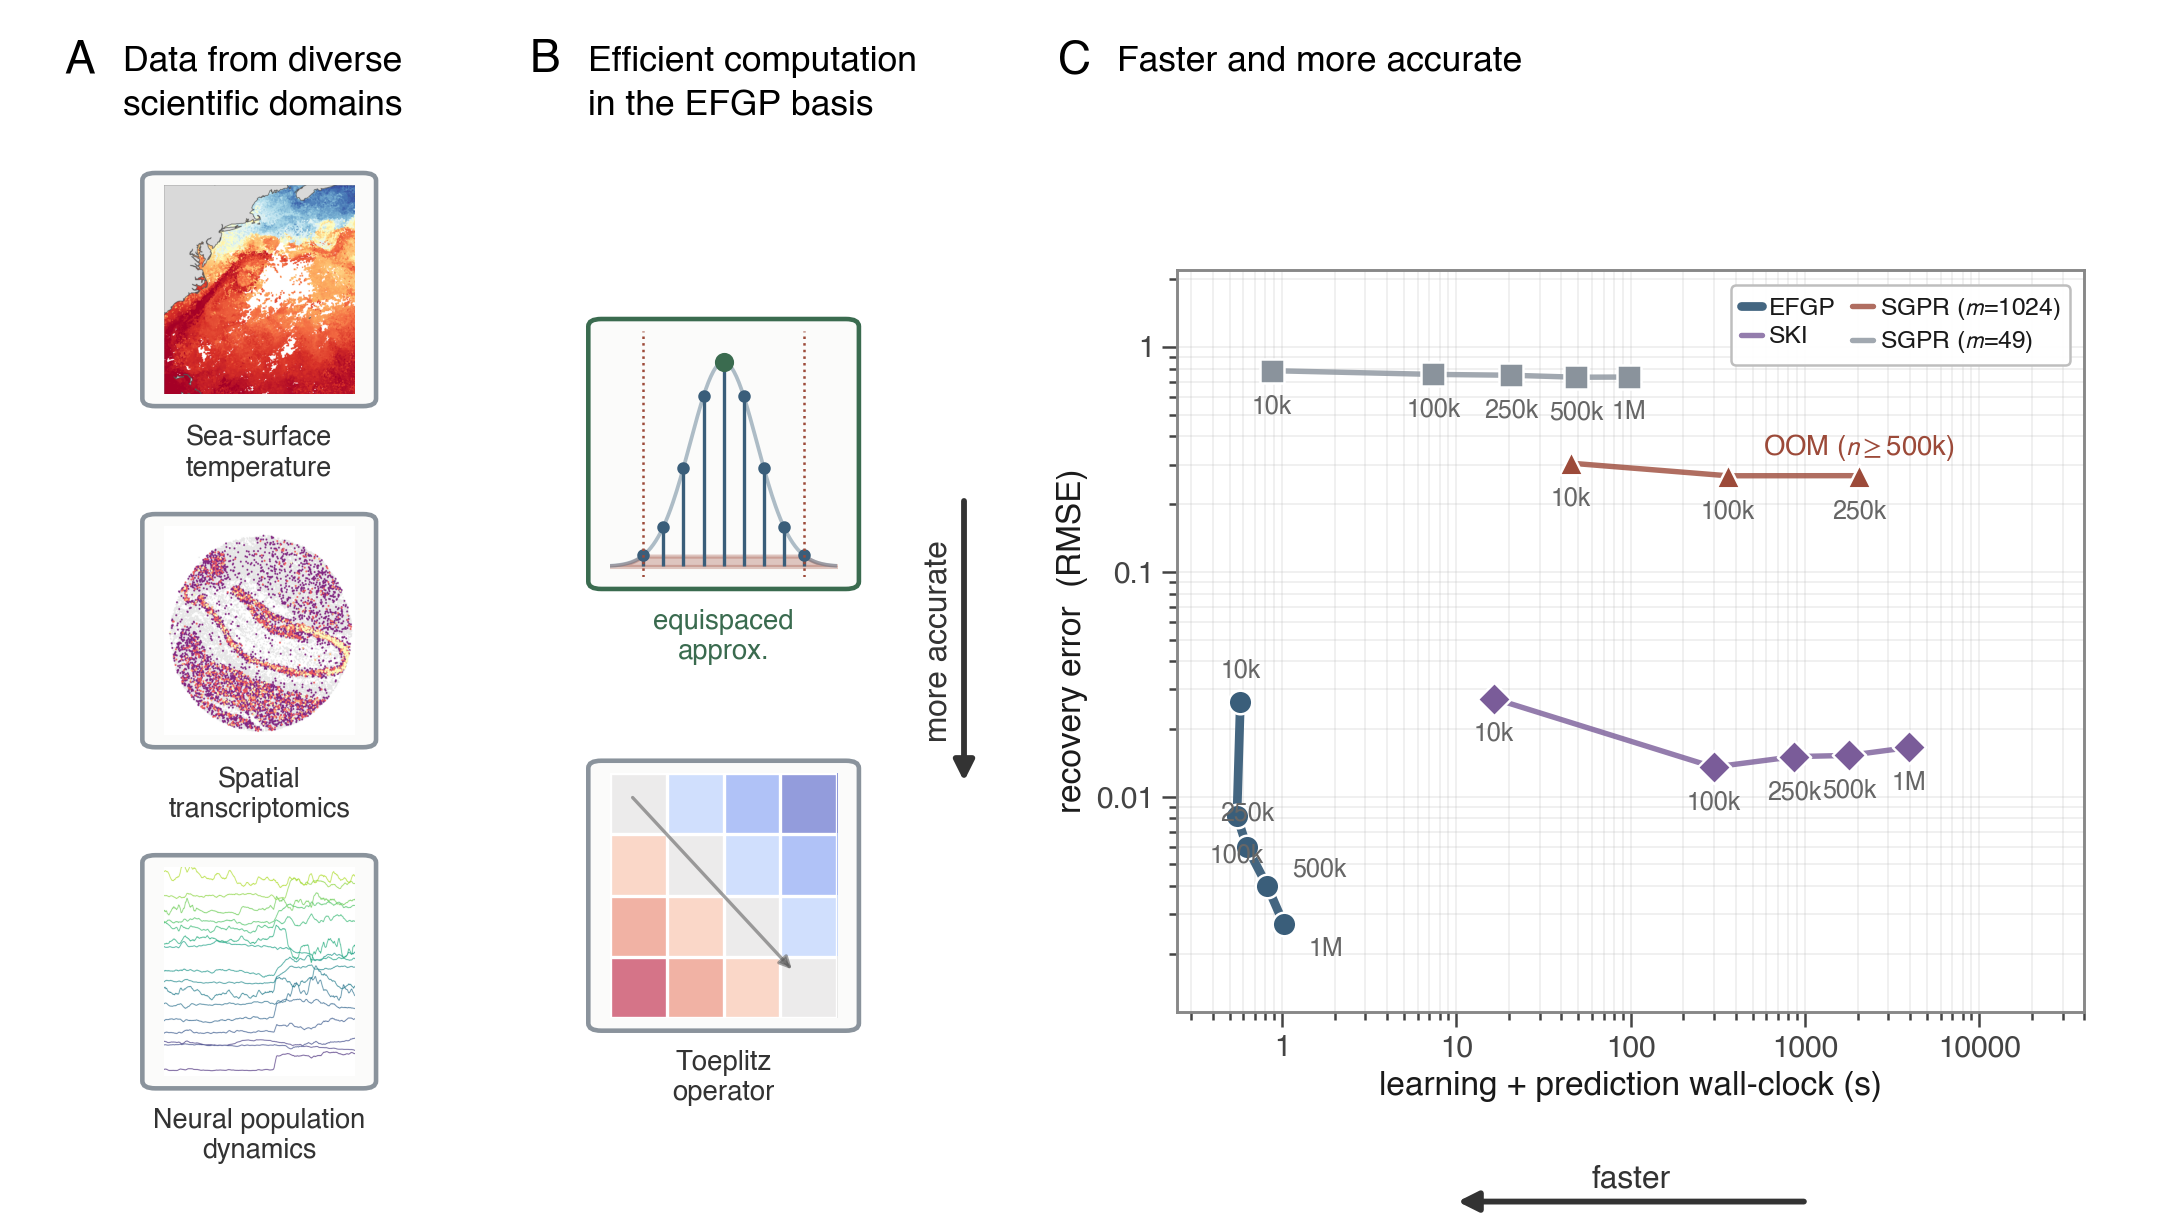
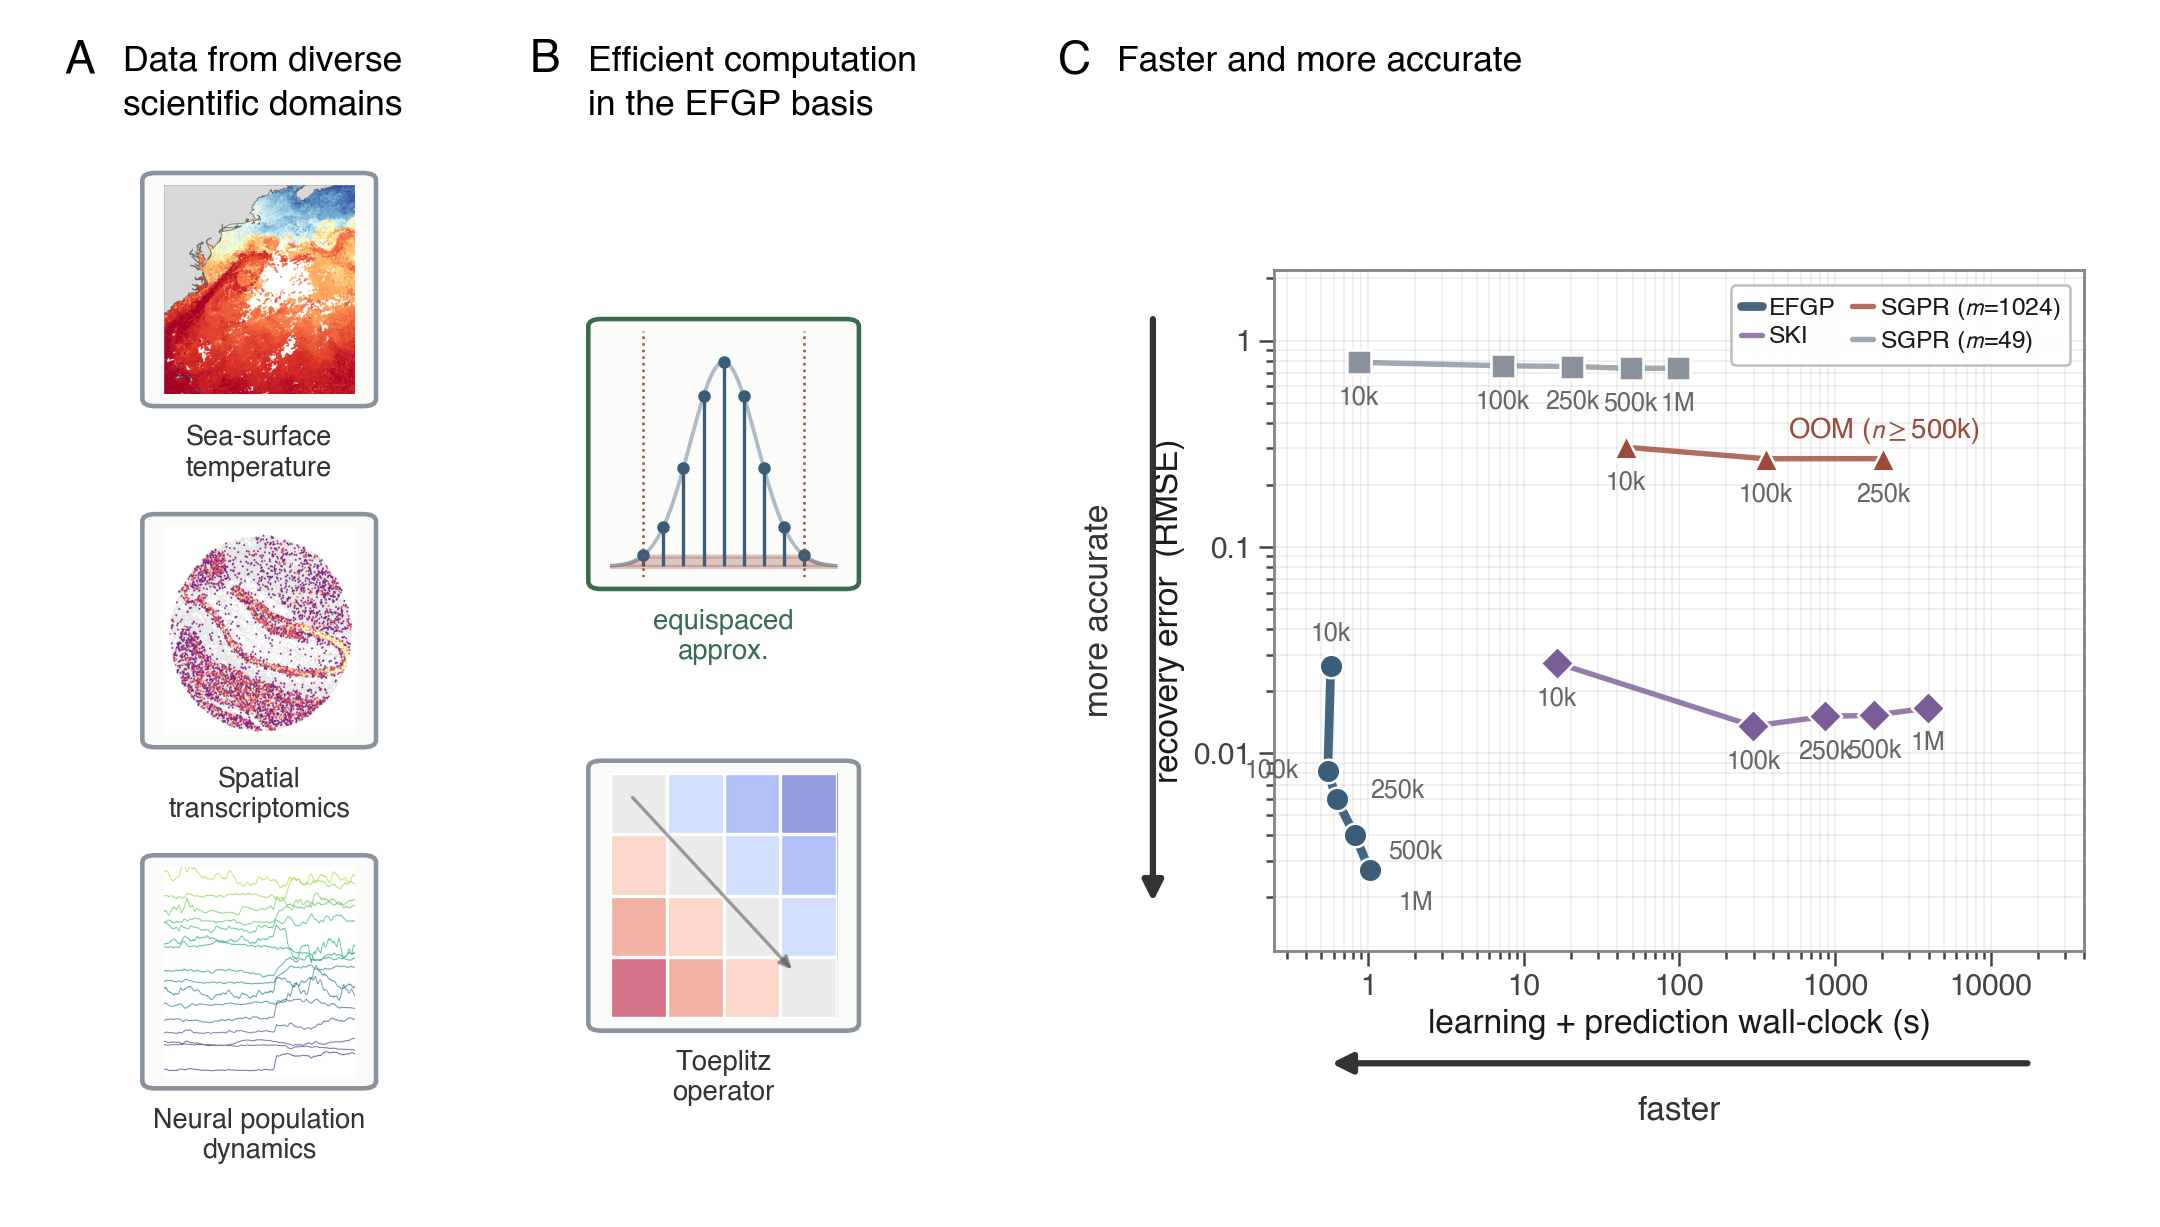
Fig 1 reorient: 0-freq node (normal size), fan out EFGP labels, redesign outside arrows
- equispaced-approx glyph: DC node same size as others (dropped the enlarged highlight).
- panel C: fan out the tightly-clustered EFGP size labels so they no longer overlap.
- altarrows: replace the far-floating outside arrows with long direction arrows that span
  each axis and hug just outside the axis labels ('faster' under x, 'more accurate' beside y);
  panel C axes inset a touch to give the margins room.

diff --git a/paper_figures/fig1_reorient.py b/paper_figures/fig1_reorient.py
@@ -208,8 +208,9 @@ def panel_D_plot(fig, letter, letter_x, title_x, title_y, axes_rect, arrows="ins
     for m in by:
         by[m].sort(key=lambda r: r["T"])
 
-    EFF = {10000: (0, 7.5, "center"), 100000: (0, -9.5, "center"), 250000: (0, 8, "center"),
-           500000: (6, 4, "left"), 1000000: (6, -6, "left")}
+    # EFGP points cluster tightly (~0.5-1s); fan the size labels out so they don't overlap
+    EFF = {10000: (0, 8, "center"), 100000: (-7, 0, "right"), 250000: (8, 2, "left"),
+           500000: (8, -4, "left"), 1000000: (7, -8, "left")}
     NOFF = {"sgpr49": (0, -8.5, "center"), "sgpr1024": (0, -8.5, "center"), "ski": (0, -8.5, "center")}
     _EFF_DEFAULT, _NOFF_DEFAULT = (6, 0, "left"), (0, -8.5, "center")
     _err = lambda r: r.get("rmse", r.get("nrmse"))   # 'rmse' (current) or legacy 'nrmse'
@@ -247,17 +248,17 @@ def panel_D_plot(fig, letter, letter_x, title_x, title_y, axes_rect, arrows="ins
         ax.set_ylabel("recovery error  (RMSE)", fontsize=ST.FS_LABEL, labelpad=2.0)
         ax.tick_params(labelsize=7.2, pad=2.0)
         ax.grid(alpha=0.22, which="both", lw=0.4)
-        aprops = dict(arrowstyle="-|>", color=gr, lw=1.4)
-        # 'faster' -> horizontal, in the bottom margin BELOW the x-axis label, pointing left
-        ax.annotate("", xy=(0.30, -0.255), xytext=(0.70, -0.255), xycoords="axes fraction",
+        aprops = dict(arrowstyle="-|>", color=gr, lw=1.5)
+        # long left-pointing arrow spanning the x-axis, hugging just below the x-axis label
+        ax.annotate("", xy=(0.06, -0.165), xytext=(0.94, -0.165), xycoords="axes fraction",
                     textcoords="axes fraction", arrowprops=aprops, annotation_clip=False, zorder=10)
-        ax.text(0.50, -0.245, "faster", transform=ax.transAxes, fontsize=7.6, color=gr,
-                style="italic", ha="center", va="bottom", clip_on=False, zorder=10)
-        # 'more accurate' -> vertical, in the left margin LEFT of the y-axis label, pointing down
-        ax.annotate("", xy=(-0.235, 0.30), xytext=(-0.235, 0.70), xycoords="axes fraction",
+        ax.text(0.50, -0.235, "faster", transform=ax.transAxes, fontsize=8.0, color=gr,
+                style="italic", ha="center", va="center", clip_on=False, zorder=10)
+        # long down-pointing arrow spanning the y-axis, hugging just left of the y-axis label
+        ax.annotate("", xy=(-0.15, 0.06), xytext=(-0.15, 0.94), xycoords="axes fraction",
                     textcoords="axes fraction", arrowprops=aprops, annotation_clip=False, zorder=10)
-        ax.text(-0.245, 0.50, "more accurate", transform=ax.transAxes, fontsize=7.6, color=gr,
-                style="italic", rotation=90, ha="right", va="center", clip_on=False, zorder=10)
+        ax.text(-0.215, 0.50, "more accurate", transform=ax.transAxes, fontsize=8.0, color=gr,
+                style="italic", rotation=90, ha="center", va="center", clip_on=False, zorder=10)
     else:
         ax.set_xlabel("learning + prediction wall-clock (s)", fontsize=ST.FS_LABEL, labelpad=2.0)
         ax.set_ylabel("recovery error  (RMSE)", fontsize=ST.FS_LABEL, labelpad=2.0)
@@ -336,11 +337,10 @@ def _trunc_glyph(fig, rect):
     xmax = 2.4
     ax.fill_between(xi[np.abs(xi) > xmax], 0, khat(xi[np.abs(xi) > xmax]),
                     color=COL["red"], alpha=0.30)
-    # equispaced grid ALWAYS includes the zero frequency (DC), so 0 is a node
+    # equispaced grid ALWAYS includes the zero frequency (DC), so 0 is a node (grid centered on 0)
     nodes = np.arange(-2.4, 2.41, 0.6)
     mk, sl, bl = ax.stem(nodes, khat(nodes), basefmt=" ")
     plt.setp(sl, color=COL["space"], lw=0.8); plt.setp(mk, color=COL["space"], ms=2.0)
-    ax.plot([0.0], [khat(0.0)], marker="o", ms=3.6, color=COL["four"], zorder=6)  # highlight DC node
     ax.axvline(xmax, color=COL["red"], lw=0.6, ls=":"); ax.axvline(-xmax, color=COL["red"], lw=0.6, ls=":")
     ax.set_ylim(-0.05, 1.15); ax.set_xlim(-3.4, 3.4); ax.set_xticks([]); ax.set_yticks([])
     for sp in ax.spines.values(): sp.set_visible(False)
@@ -482,9 +482,9 @@ def build_flow_v2_altarrows():
     for (gfn, lab, hero), cy in zip(steps, rows_B):
         _boxc(fig, 0.335, cy, BH2, gfn, lab, hero=hero, fs=6.6)
 
-    # slightly inset axes on the left/bottom so the outside arrows + labels have margin room
+    # inset axes on the left/bottom so the outside direction-arrows + labels have clear margin room
     panel_D_plot(fig, "C", letter_x=0.490, title_x=0.517, title_y=0.95,
-                 axes_rect=[0.545, 0.175, 0.420, 0.605], arrows="outside")
+                 axes_rect=[0.590, 0.225, 0.375, 0.555], arrows="outside")
     return fig
 
 
